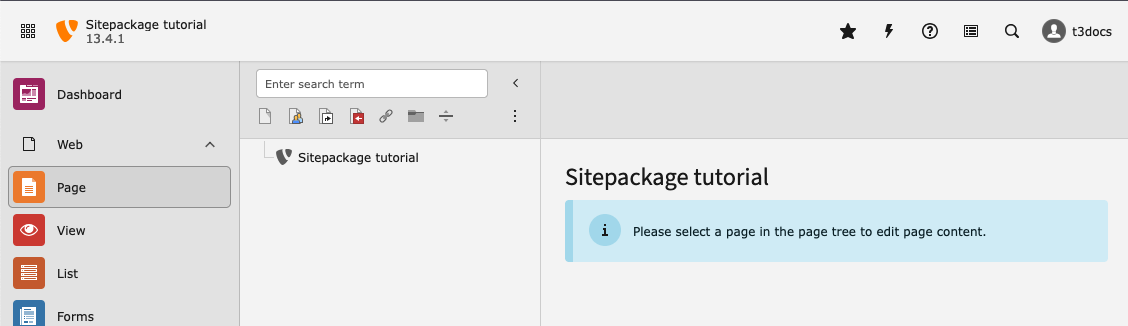
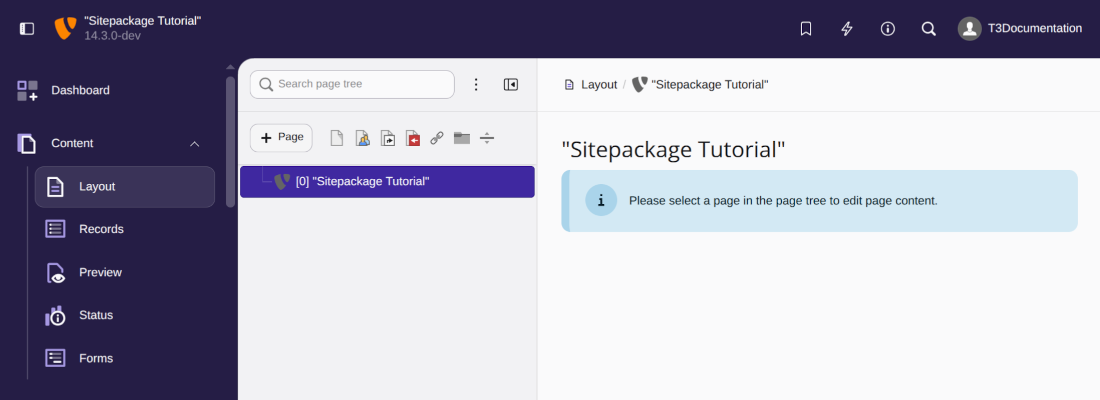
[DOCS] Update text and image of prerequisites for v14 (#391)

diff --git a/Documentation/Prerequisites/Index.rst b/Documentation/Prerequisites/Index.rst
@@ -8,7 +8,7 @@ Prerequisites to create a TYPO3 site package extension
 ======================================================
 
 Before you start working on this tutorial you should have a working TYPO3
-installation in versions 13.4 or above.
+installation in versions 14.3 or above.
 
 We assume you use Composer and work locally with DDEV.
 
@@ -25,7 +25,7 @@ You should be able to log in into the TYPO3 backend and see the following:
 
 ..  figure:: EmptyInstallation.png
     :zoom: lightbox
-    :alt: Screenshot of a fresh TYPO3 13.4-dev installation with no page in the page tree
+    :alt: Screenshot of a fresh TYPO3 14.3-dev installation with no page in the page tree
 
     A fresh, empty TYPO3 installation (light mode)
 
